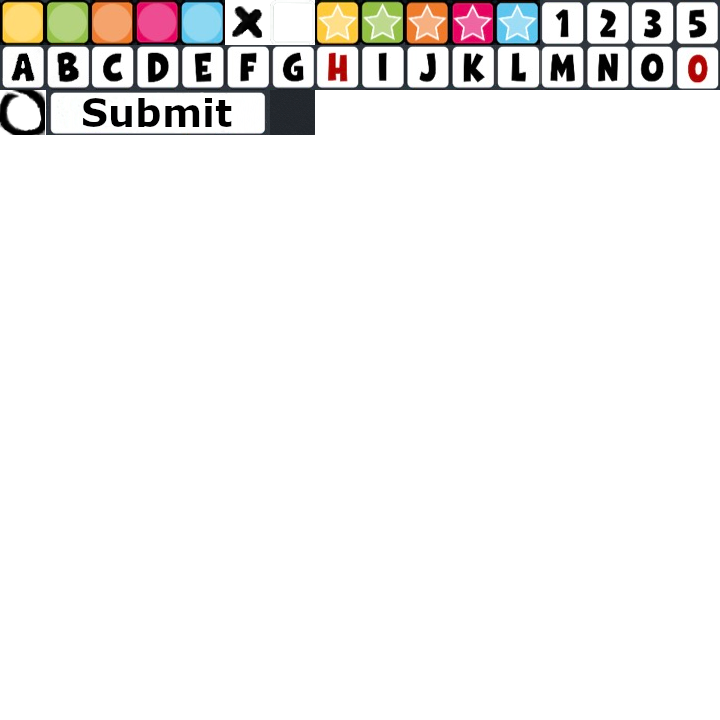
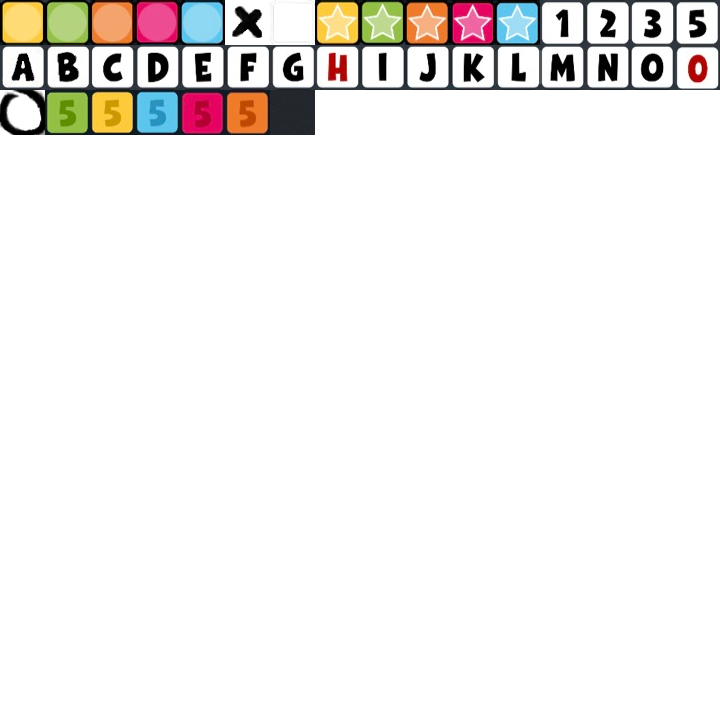
Add color points display

Changed region(s): [[0.0611, 0.1222, 0.3972, 0.2139]]

diff --git a/src/main/java/de/techfak/se/lwalkenhorst/view/ColorPointsDisplay.java b/src/main/java/de/techfak/se/lwalkenhorst/view/ColorPointsDisplay.java
@@ -1,0 +1,58 @@
+package de.techfak.se.lwalkenhorst.view;
+
+import de.techfak.se.lwalkenhorst.game.TileColor;
+import javafx.scene.image.ImageView;
+import javafx.scene.layout.VBox;
+
+import java.util.HashMap;
+import java.util.Map;
+
+public class ColorPointsDisplay extends VBox {
+
+    private static final int WIDTH = 45;
+    private static final int HEIGHT = 45;
+    private static final int Y_OFFSET = 90;
+
+    private final Map<TileColor, PointDisplay> colorDisplayMap = new HashMap<>();
+
+    public ColorPointsDisplay(final ImageFactory imageFactory) {
+        super();
+        addPointDisplay(TileColor.GREEN, imageFactory);
+        addPointDisplay(TileColor.YELLOW, imageFactory);
+        addPointDisplay(TileColor.BLUE, imageFactory);
+        addPointDisplay(TileColor.RED, imageFactory);
+        addPointDisplay(TileColor.ORANGE, imageFactory);
+    }
+
+    public final void addPointDisplay(final TileColor tileColor, final ImageFactory imageFactory) {
+        final ImageView crossed = imageFactory.createCrossImage();
+        final PointDisplay pointDisplay;
+        switch (tileColor) {
+            case GREEN:
+                pointDisplay = new PointDisplay(imageFactory.createImage(45, Y_OFFSET, WIDTH, HEIGHT), crossed);
+                break;
+            case YELLOW:
+                pointDisplay = new PointDisplay(imageFactory.createImage(90, Y_OFFSET, WIDTH, HEIGHT), crossed);
+                break;
+            case BLUE:
+                pointDisplay = new PointDisplay(imageFactory.createImage(135, Y_OFFSET, WIDTH, HEIGHT), crossed);
+                break;
+            case RED:
+                pointDisplay = new PointDisplay(imageFactory.createImage(180, Y_OFFSET, WIDTH, HEIGHT), crossed);
+                break;
+            case ORANGE:
+                pointDisplay = new PointDisplay(imageFactory.createImage(225, Y_OFFSET, WIDTH, HEIGHT), crossed);
+                break;
+            default:
+                throw new IllegalArgumentException();
+        }
+        getChildren().add(pointDisplay);
+        colorDisplayMap.put(tileColor, pointDisplay);
+    }
+
+    public void markColorAsFull(final TileColor color) {
+        if (colorDisplayMap.containsKey(color)) {
+            colorDisplayMap.get(color).mark();
+        }
+    }
+}

diff --git a/src/main/java/de/techfak/se/lwalkenhorst/view/GameDisplay.java b/src/main/java/de/techfak/se/lwalkenhorst/view/GameDisplay.java
@@ -2,6 +2,7 @@ package de.techfak.se.lwalkenhorst.view;
 
 import de.techfak.se.lwalkenhorst.game.Game;
 import de.techfak.se.lwalkenhorst.game.Points;
+import de.techfak.se.lwalkenhorst.game.TileColor;
 import javafx.geometry.Pos;
 import javafx.scene.control.Button;
 import javafx.scene.control.Label;
@@ -20,6 +21,7 @@ public class GameDisplay extends VBox {
     private Button submitButton;
     private BoardDisplay boardDisplay;
     private ColumnPointsDisplay columnPointsDisplay;
+    private ColorPointsDisplay colorPointsDisplay;
     private Label pointsLabel;
 
     public void init(final Game game) {
@@ -30,8 +32,13 @@ public class GameDisplay extends VBox {
         this.boardDisplay = new BoardDisplay(game.getBoard(), imageFactory);
         this.columnPointsDisplay = new ColumnPointsDisplay(game.getBoard(), game.getRuleManger(), imageFactory);
         getChildren().add(imageFactory.createBoardHeaderImage());
-        getChildren().add(boardDisplay);
-        final HBox hBox = new HBox(columnPointsDisplay, submitButton, pointsLabel);
+
+        this.colorPointsDisplay = new ColorPointsDisplay(imageFactory);
+        HBox hBox = new HBox(boardDisplay, colorPointsDisplay);
+        hBox.setSpacing(SPACING);
+        getChildren().add(hBox);
+
+        hBox = new HBox(columnPointsDisplay, submitButton, pointsLabel);
         hBox.setSpacing(SPACING);
         getChildren().add(hBox);
     }
@@ -64,6 +71,10 @@ public class GameDisplay extends VBox {
 
     public void setPoints(final Points points) {
         pointsLabel.setText("Points: " + points);
+    }
+
+    public void markColorAsFull(final TileColor color) {
+        colorPointsDisplay.markColorAsFull(color);
     }
 
     public void markColumnPoints(final int column) {

diff --git a/src/main/java/de/techfak/se/lwalkenhorst/conrtoller/GuiController.java b/src/main/java/de/techfak/se/lwalkenhorst/conrtoller/GuiController.java
@@ -3,6 +3,7 @@ package de.techfak.se.lwalkenhorst.conrtoller;
 import de.techfak.se.lwalkenhorst.exception.InvalidTurnException;
 import de.techfak.se.lwalkenhorst.game.Game;
 import de.techfak.se.lwalkenhorst.game.PropertyChange;
+import de.techfak.se.lwalkenhorst.game.TileColor;
 import de.techfak.se.lwalkenhorst.game.TilePosition;
 import de.techfak.se.lwalkenhorst.game.Turn;
 import de.techfak.se.lwalkenhorst.game.TurnFactory;
@@ -36,13 +37,15 @@ public class GuiController {
         gameDisplay.init(game);
         gameDisplay.setTileClickHandler(this::clickTile);
         gameDisplay.setSubmitTurnHandler(this::submitTurn);
-        game.play();
     }
 
     private void updatePoints() {
         gameDisplay.setPoints(game.getPoints());
         for (final int column : game.getRuleManger().getFullColumns()) {
             gameDisplay.markColumnPoints(column);
+        }
+        for (final TileColor color : game.getRuleManger().getFullColors()) {
+            gameDisplay.markColorAsFull(color);
         }
     }
 

diff --git a/src/main/java/de/techfak/se/lwalkenhorst/view/ImageFactory.java b/src/main/java/de/techfak/se/lwalkenhorst/view/ImageFactory.java
@@ -35,8 +35,6 @@ public class ImageFactory {
     private static final int POINT_FIVE_OFFSET = 675;
 
     private static final int CIRCLE_OFFSET = 90;
-    private static final int SUBMIT_OFFSET = 45;
-    private static final int SUBMIT_WIDTH = 225;
 
     private static final int BACKGROUND_OFFSET = 270;
 
@@ -98,9 +96,10 @@ public class ImageFactory {
         return new ImageView(new WritableImage(reader, 0, CIRCLE_OFFSET, WIDTH, HEIGHT));
     }
 
-    public ImageView createSubmitImage() {
-        return new ImageView(new WritableImage(reader, SUBMIT_OFFSET, CIRCLE_OFFSET, SUBMIT_WIDTH, HEIGHT));
+    public ImageView createImage(final int posX, final int posY, final int width, final int  height) {
+        return new ImageView(new WritableImage(reader, posX, posY, width, height));
     }
+
 
     public Background createBackgroundImage(final double width, final double height) {
         final Image image = new WritableImage(reader, BACKGROUND_OFFSET, CIRCLE_OFFSET, WIDTH, HEIGHT);

diff --git a/src/main/java/de/techfak/se/lwalkenhorst/GuiApplication.java b/src/main/java/de/techfak/se/lwalkenhorst/GuiApplication.java
@@ -33,6 +33,7 @@ public class GuiApplication extends Application {
 
         final GuiController controller = fxmlLoader.getController();
         controller.initialize(game);
+        game.play();
 
         final Scene scene = new Scene(root);
         stage.setTitle("GSE-2020 Encore!");

diff --git a/src/main/java/de/techfak/se/lwalkenhorst/game/GameImpl.java b/src/main/java/de/techfak/se/lwalkenhorst/game/GameImpl.java
@@ -25,7 +25,9 @@ public class GameImpl implements Game {
     }
 
     @Override
+    @SuppressWarnings("PMD.SystemPrintln")
     public void play() {
+        System.out.println("Welcome to Encore!");
         round = Round.enterFirst(gameStrategy);
     }
 
